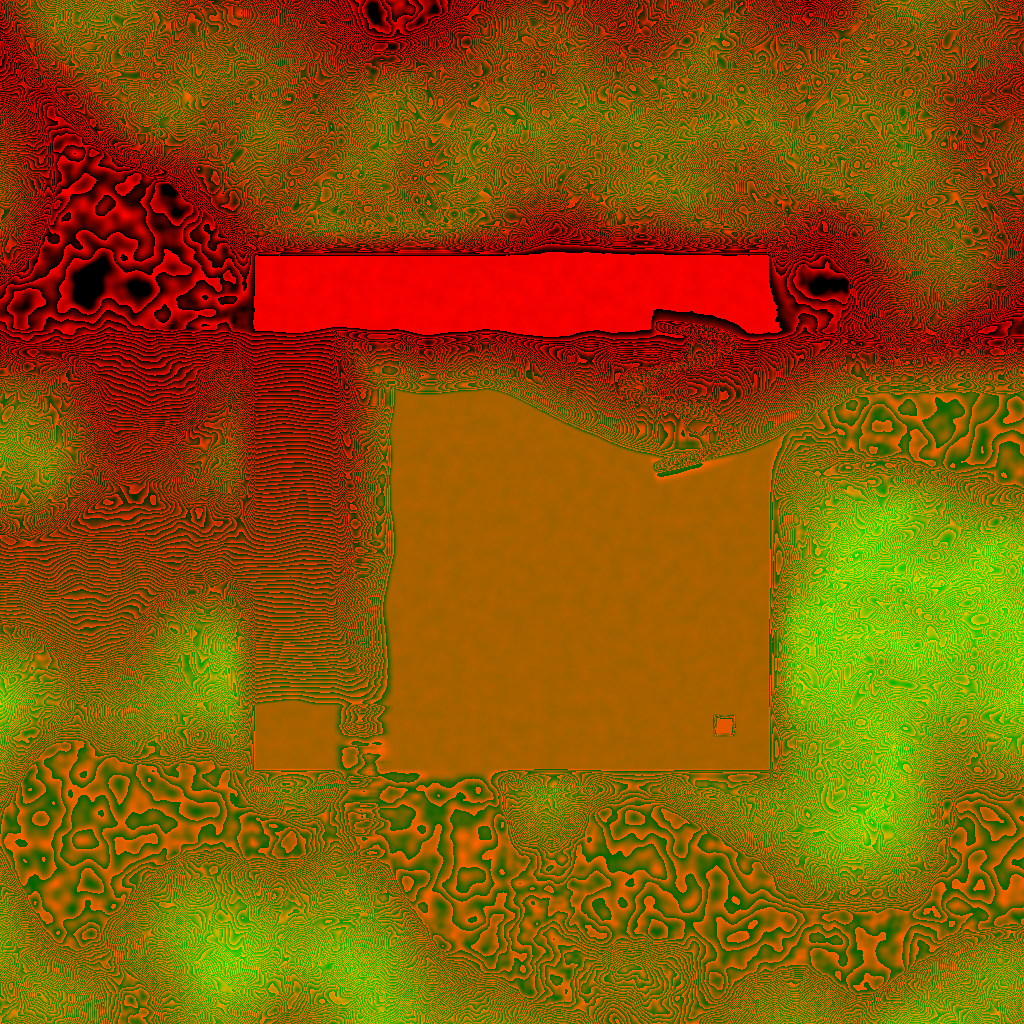
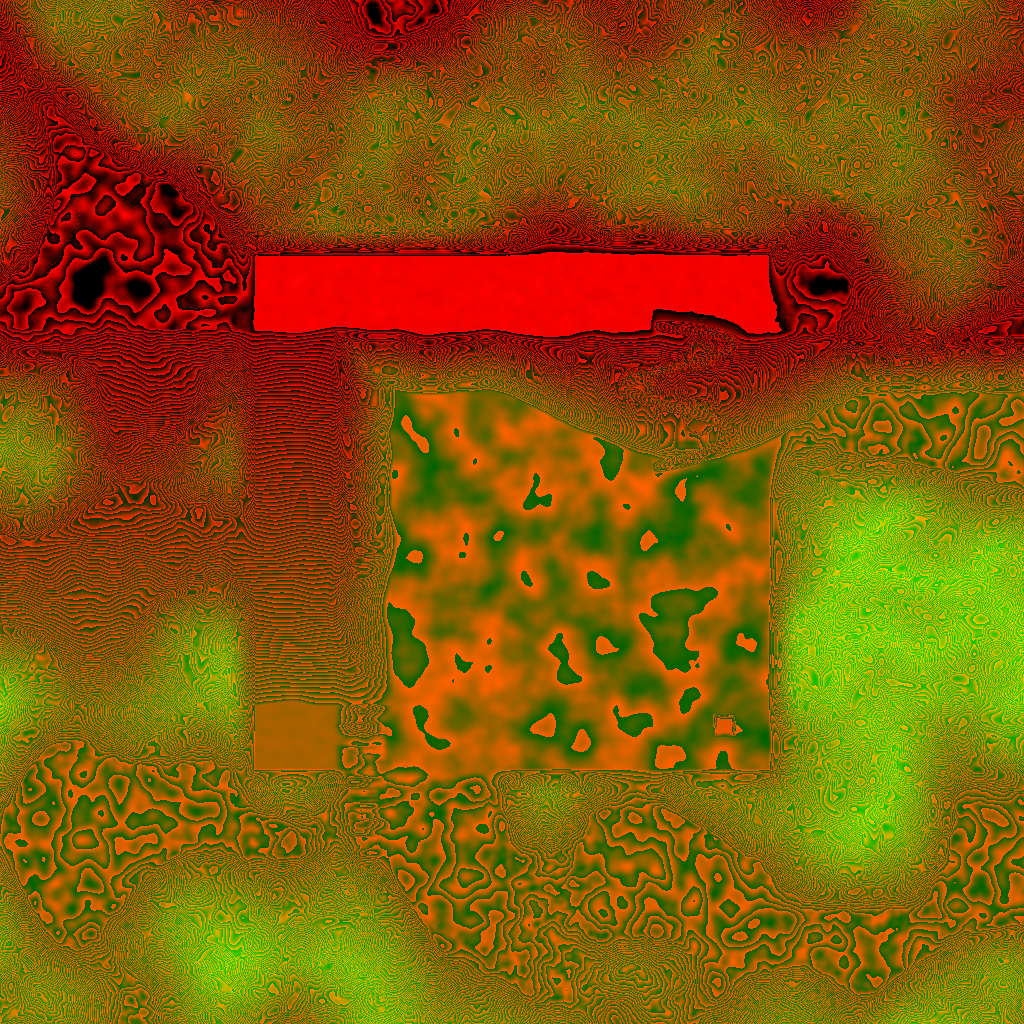
Terreno irregular en el altiplano

Changed region(s): [[0.375, 0.375, 1.0, 1.0]]

diff --git a/dem_generator_matopiba/dem_viewer_3d.html b/dem_generator_matopiba/dem_viewer_3d.html
@@ -462,7 +462,7 @@
             </div>
             <div class="stat-card">
                 <div class="stat-label">Rango Alturas</div>
-                <div class="stat-value">0.0m - 538.7m</div>
+                <div class="stat-value">0.0m - 538.5m</div>
             </div>
             <div class="stat-card">
                 <div class="stat-label">Área Jugable</div>
@@ -584,7 +584,7 @@
     <script>
         // Elevation ranges from Python
         const MIN_HEIGHT = 0.0;
-        const MAX_HEIGHT = 538.71;
+        const MAX_HEIGHT = 538.49;
         const MAP_SIZE = 8192; // 8192m width and length
         const PLAYABLE_SIZE = 4096;
         const PLAYABLE_OFFSET = (MAP_SIZE - PLAYABLE_SIZE) / 2;

diff --git a/dem_generator_matopiba/generate_layout_dem.py b/dem_generator_matopiba/generate_layout_dem.py
@@ -286,7 +286,20 @@ def main():
     micro_roughness = generate_fractal_noise_2d((S, S), [64, 128, 256], [0.15, 0.08, 0.04], seed=args.seed + 103)
     baseline_meters += micro_roughness * road_suppression
     
-
+    # 5d. Plateau irregular terrain (altiplano undulations, peak-to-peak range of 5 meters)
+    print("   - Adding irregular undulations to the plateau (altiplano)...")
+    w_plateau = np.clip((w_slope - 0.9) / 0.1, 0.0, 1.0)
+    w_plateau = 0.5 * (1.0 - np.cos(np.pi * w_plateau))
+    
+    raw_plateau_noise = generate_fractal_noise_2d((S, S), [16, 32, 64], [1.0, 0.5, 0.2], seed=args.seed + 200)
+    p_min, p_max = raw_plateau_noise.min(), raw_plateau_noise.max()
+    if p_max - p_min > 1e-5:
+        scaled_plateau_noise = (raw_plateau_noise - p_min) / (p_max - p_min) - 0.5  # Range -0.5 to 0.5
+        scaled_plateau_noise *= 5.0  # Range -2.5 to 2.5 meters (5m peak-to-peak difference)
+    else:
+        scaled_plateau_noise = raw_plateau_noise * 0.0
+        
+    baseline_meters += scaled_plateau_noise * w_plateau * road_suppression
     
     # Convert meters to raw heightmap units
     baseline = baseline_meters * 100.0
